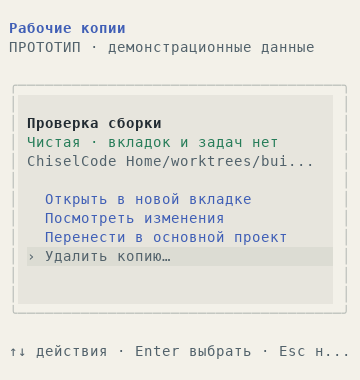
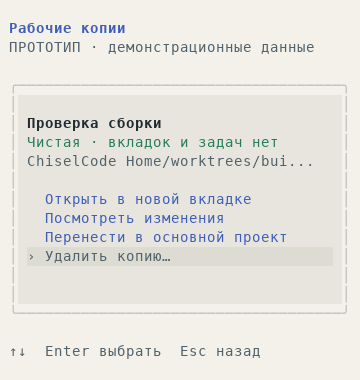
Уточнить подсказки и сохранить кадры узкого меню

Changed region(s): [[0.0917, 0.8974, 0.6111, 0.9553], [0.6417, 0.8974, 0.7333, 0.9553], [0.7639, 0.8974, 0.825, 0.9553]]

diff --git a/scripts/worktree-menu-prototype.tsx b/scripts/worktree-menu-prototype.tsx
@@ -76,7 +76,9 @@ function Prototype({
       : screen !== "list" && screen !== "detail"
         ? "Esc — вернуться к списку"
         : screen === "detail" || focus === "actions"
-          ? "↑↓ действия · Enter выбрать · Esc назад"
+          ? width < 60
+            ? "↑↓  Enter выбрать  Esc назад"
+            : "↑↓ действия · Enter выбрать · Esc назад"
           : width < 60
             ? "↑↓  Enter открыть  Esc назад"
             : width < 100
@@ -602,6 +604,7 @@ if (captureAt >= 0) {
       });
       await key("RETURN");
       await ready("Проверка сборки");
+      await ready("Esc назад");
       await capture("detail-40x20");
       await act(async () => {
         t.resize(24, 8);
